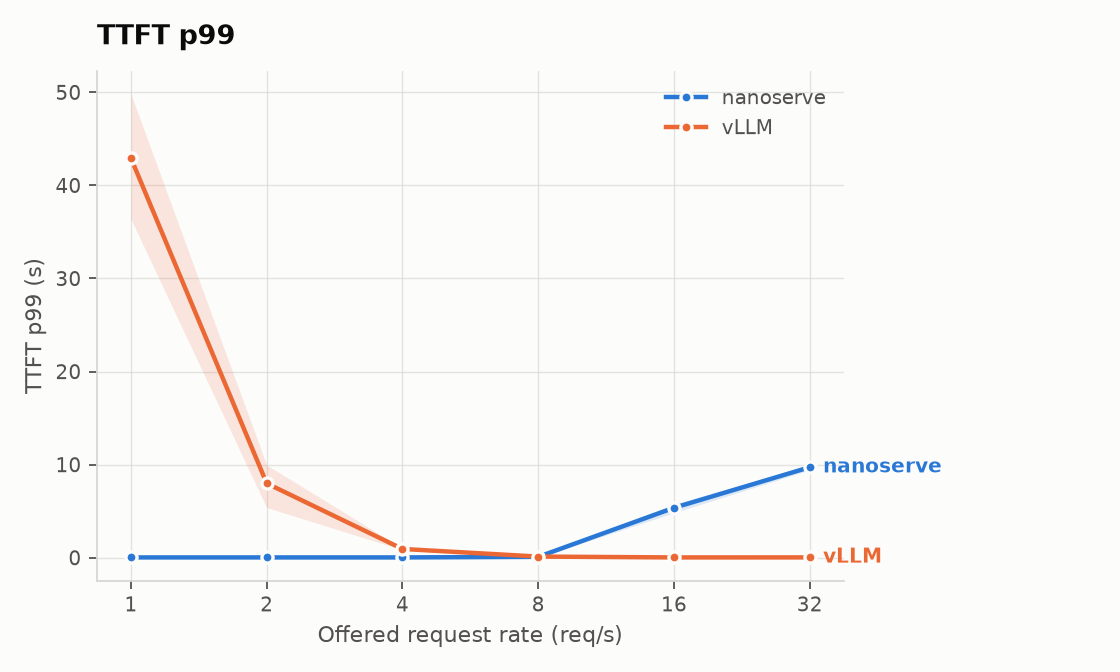
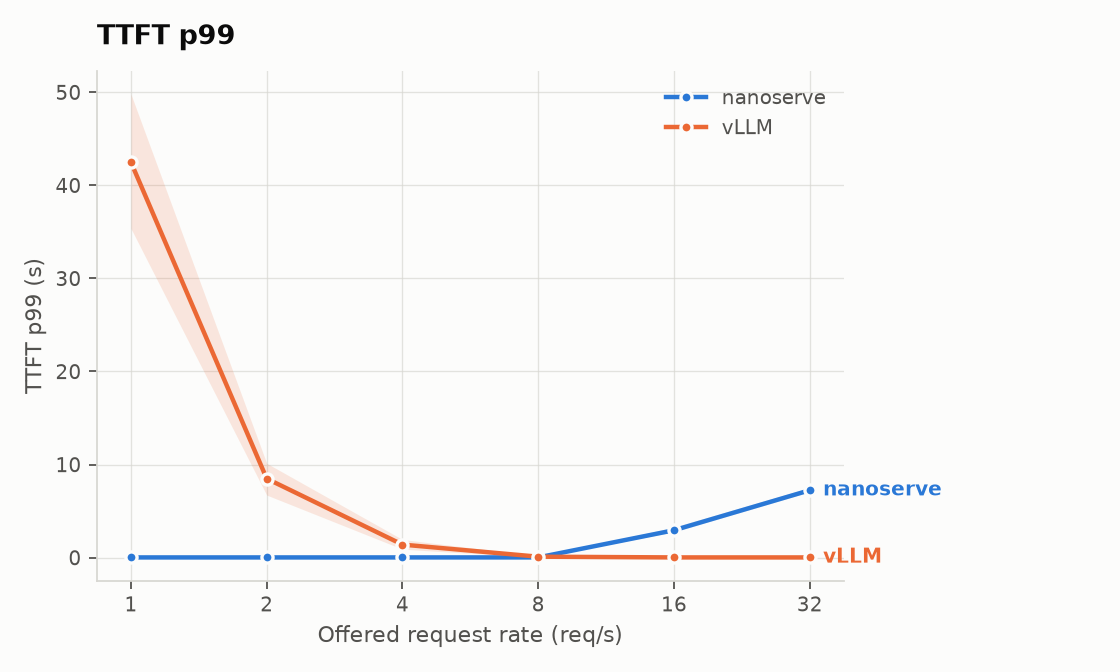
[fix] never idle the driver while requests are in flight
The loop slept until the next arrival whenever a step came back empty. A
step can come back empty while work is running -- a prefill produces no
tokens -- so at one request a second the driver stalled the engine for
about a second at a time, and vLLM's time to first token read as twenty
seconds instead of ten milliseconds.

Only low rates were affected, because at high rates the next arrival is
already overdue and the sleep is zero. nanoserve never tripped it: its
step returns a token per running sequence even on a prefill.

Wrong in the direction that flattered nanoserve, which is the direction
that matters here.

diff --git a/test/test_online.py b/test/test_online.py
@@ -87,3 +87,40 @@ def test_decode_first_is_reachable_from_the_driver():
     records = online.run(engine, make_requests(4), [0.0], sampling_for)
     assert records[0].num_chunks == 4
     assert engine.info()["prefill_first"] is False
+
+
+class QuietRunner(FakeRunner):
+    """Produces nothing on its first step, the way a prefill-only step
+    looks to a driver that reads tokens as they appear."""
+
+    def __init__(self, tokens):
+        super().__init__(tokens)
+        self.calls = 0
+
+    def sample(self, logits, batch):
+        self.calls += 1
+        if self.calls == 1:
+            return []
+        return super().sample(logits, batch)
+
+
+def test_a_step_that_produces_nothing_does_not_stall_the_run():
+    """A driver that idles whenever a step came back empty will sleep until
+    the next arrival while requests are already in flight. At one request a
+    second that stalls the engine for a second at a time, and every latency
+    number afterwards describes the driver rather than the engine.
+    """
+    manager = BlockManager(num_blocks=64, block_size=8)
+    scheduler = Scheduler(block_manager=manager)
+    engine = Engine(scheduler, FakeRunner([ord("x")]))
+
+    started = time.perf_counter()
+    # Second request arrives late; the first must keep being stepped while
+    # the driver waits for it.
+    records = online.run(engine, make_requests(40, 2), [0.0, 3.0], sampling_for)
+    elapsed = time.perf_counter() - started
+
+    assert records[0].num_chunks == 40
+    # The first request's tokens must not be bunched at the far end.
+    assert records[0].chunk_times[-1] < started + 3.0, "first request was stalled"
+    assert elapsed >= 3.0

diff --git a/benchmarks/online.py b/benchmarks/online.py
@@ -36,7 +36,7 @@ def run(engine, requests, schedule, sampling_for, deadline_s=1800) -> list:
             if out.finished:
                 live -= 1
 
-        if not outputs and pending:
+        if not outputs and pending and not live:
             time.sleep(max(0.0, pending[-1][1] - (time.perf_counter() - start)))
 
     if live or pending:
@@ -188,7 +188,7 @@ def VLLM(args):
                 if out.finished:
                     live -= 1
 
-            if not outputs and pending:
+            if not outputs and pending and not live:
                 time.sleep(max(0.0, pending[-1][2] - (time.perf_counter() - start)))
 
         return [records[k] for k in sorted(records, key=int)]

diff --git a/docs/benchmarks/results.md b/docs/benchmarks/results.md
@@ -1,20 +1,20 @@
 | engine | rate (req/s) | tok/s | TTFT p50 | TTFT p99 | ITL p99 | attained |
 | --- | --- | --- | --- | --- | --- | --- |
-| nanoserve | 1 | 211 | 25 ms | 27 ms | 48 ms | 0.94 |
-| nanoserve | 2 | 396 | 25 ms | 27 ms | 49 ms | 1.77 |
-| nanoserve | 4 | 708 | 25 ms | 27 ms | 50 ms | 3.17 |
-| nanoserve | 8 | 1164 | 25 ms | 88 ms | 74 ms | 5.21 |
-| nanoserve | 16 | 1418 | 26 ms | 5360 ms | 74 ms | 6.34 |
-| nanoserve | 32 | 1513 | 974 ms | 9717 ms | 65 ms | 6.77 |
-| vLLM | 1 | 224 | 27731 ms | 42927 ms | 1 ms | 1.00 |
-| vLLM | 2 | 444 | 562 ms | 7985 ms | 3 ms | 1.99 |
-| vLLM | 4 | 877 | 13 ms | 936 ms | 3 ms | 3.92 |
-| vLLM | 8 | 1706 | 13 ms | 118 ms | 9 ms | 7.63 |
-| vLLM | 16 | 3198 | 15 ms | 27 ms | 10 ms | 14.31 |
-| vLLM | 32 | 5385 | 15 ms | 29 ms | 11 ms | 24.09 |
+| nanoserve | 1 | 213 | 20 ms | 23 ms | 38 ms | 0.95 |
+| nanoserve | 2 | 406 | 21 ms | 23 ms | 41 ms | 1.82 |
+| nanoserve | 4 | 731 | 21 ms | 22 ms | 42 ms | 3.27 |
+| nanoserve | 8 | 1233 | 21 ms | 24 ms | 61 ms | 5.52 |
+| nanoserve | 16 | 1683 | 21 ms | 2943 ms | 59 ms | 7.53 |
+| nanoserve | 32 | 1808 | 449 ms | 7242 ms | 59 ms | 8.09 |
+| vLLM | 1 | 224 | 27675 ms | 42494 ms | 1 ms | 1.00 |
+| vLLM | 2 | 444 | 679 ms | 8492 ms | 3 ms | 1.99 |
+| vLLM | 4 | 877 | 10 ms | 1400 ms | 6 ms | 3.92 |
+| vLLM | 8 | 1707 | 10 ms | 101 ms | 7 ms | 7.64 |
+| vLLM | 16 | 3208 | 11 ms | 24 ms | 7 ms | 14.35 |
+| vLLM | 32 | 5438 | 12 ms | 22 ms | 8 ms | 24.33 |
 
 | engine | offline tok/s |
 | --- | --- |
-| nanoserve | 1132 |
-| vLLM | 6146 |
-| HF (static) | 393 |
+| nanoserve | 1310 |
+| vLLM | 6455 |
+| HF (static) | 421 |
